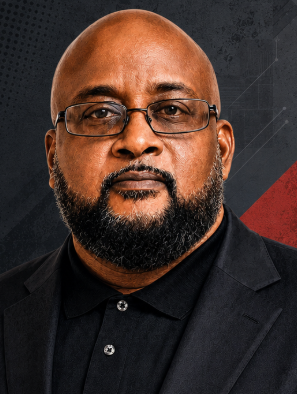
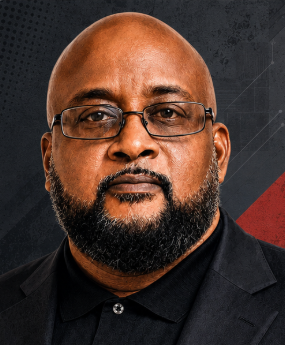
Update Garret and Devon team portraits

diff --git a/app/TeamSection.tsx b/app/TeamSection.tsx
@@ -7,7 +7,9 @@ const teamMembers = [
   {
     name: "Garret Ritchie",
     title: "Managing Director",
-    image: "/team-garret-ritchie.png",
+    image: "/team-garret-ritchie-v2.jpg",
+    imageWidth: 640,
+    imageHeight: 640,
     imageAlt: "Garret Ritchie, Managing Director at Redstone Technology Solutions",
     responsibility: "Technology Strategy, Client Solutions & Operations",
     description: "Guides Redstone’s technical operations, client solutions, project delivery and long-term technology strategy.",
@@ -17,6 +19,8 @@ const teamMembers = [
     name: "Devon Leslie",
     title: "Director of Training Support & Business Adviser",
     image: "/team-devon-leslie.png",
+    imageWidth: 285,
+    imageHeight: 345,
     imageAlt: "Devon Leslie, Director of Training Support and Business Adviser at Redstone Technology Solutions",
     responsibility: "Training Support, Professional Development & Business Advisory",
     description: "Supports professional development and advises on business priorities and client outcomes.",
@@ -25,6 +29,8 @@ const teamMembers = [
     name: "Trey Curling",
     title: "Technical Supervisor",
     image: "/redstone-favicon.png",
+    imageWidth: 512,
+    imageHeight: 512,
     imageAlt: "Portrait placeholder for Trey Curling",
     imagePending: true,
     responsibility: "Technical Team Leadership",
@@ -34,6 +40,8 @@ const teamMembers = [
     name: "Demetris Robinson",
     title: "IT Specialist",
     image: "/redstone-favicon.png",
+    imageWidth: 512,
+    imageHeight: 512,
     imageAlt: "Portrait placeholder for Demetris Robinson",
     imagePending: true,
     responsibility: "Helpdesk & Server Maintenance",
@@ -43,6 +51,8 @@ const teamMembers = [
     name: "Jayson Greene",
     title: "IT Specialist",
     image: "/redstone-favicon.png",
+    imageWidth: 512,
+    imageHeight: 512,
     imageAlt: "Portrait placeholder for Jayson Greene",
     imagePending: true,
     responsibility: "Helpdesk & Server Maintenance",
@@ -142,7 +152,7 @@ export default function TeamSection() {
           {teamMembers.map((member, index) => (
             <article key={member.name} className={member.featured ? "team-card--featured" : undefined}>
               <div className={`team-card-portrait${member.imagePending ? " team-card-portrait--pending" : ""}`}>
-                <img src={member.image} alt={member.imageAlt} width="310" height="394" loading="lazy" decoding="async" />
+                <img src={member.image} alt={member.imageAlt} width={member.imageWidth} height={member.imageHeight} loading="lazy" decoding="async" />
               </div>
               <div className="team-card-heading">
                 <div className="team-card-name-line">